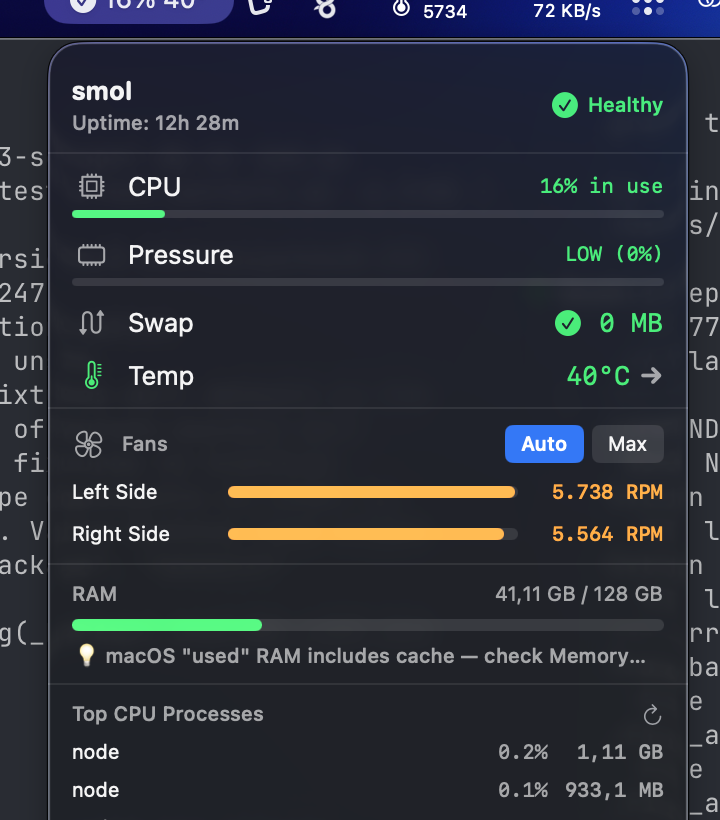
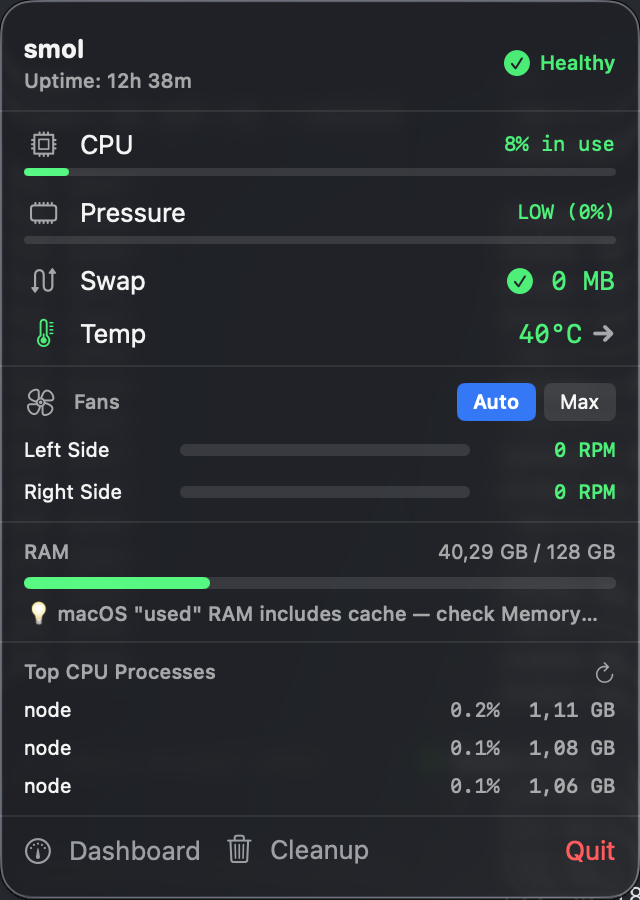
build: add release.sh and improve dashboard screenshot
- scripts/release.sh: one-shot Release build + Developer ID sign + hardened runtime + notarytool submit + stapler + signed DMG. Requires DEV_ID_APPLICATION and a stored NOTARY_PROFILE; falls back cleanly when either is missing.
- Replace dashboard-popover.png with a clean capture taken from the actual popover window bounds (no terminal bleed-through) so the README hero images match what a user sees.
- README: add a "Build a signed, notarized DMG" section pointing at the script and documenting the notarytool store-credentials step.

diff --git a/README.md b/README.md
@@ -101,6 +101,18 @@ open smol.xcodeproj
 
 > **Note on MLX backend:** to enable on-device MLX inference, add the [`mlx-swift`](https://github.com/ml-explore/mlx-swift) SPM dependency in Xcode (*File → Add Package Dependencies*) and attach `MLX`, `MLXNN`, `MLXRandom` to the `smol` target. Without it, the MLX engine falls back to placeholder responses — the rest of the app works fine.
 
+### Build a signed, notarized DMG
+See [`scripts/release.sh`](scripts/release.sh). Requires a **Developer ID Application** certificate and a stored notarytool profile:
+
+```bash
+xcrun notarytool store-credentials smol-notary \
+  --apple-id [email redacted] --team-id TEAMID --password <app-specific-password>
+
+DEV_ID_APPLICATION="Developer ID Application: Your Name (TEAMID)" \
+NOTARY_PROFILE=smol-notary \
+scripts/release.sh 1.0.0
+```
+
 ---
 
 ## Size comparison